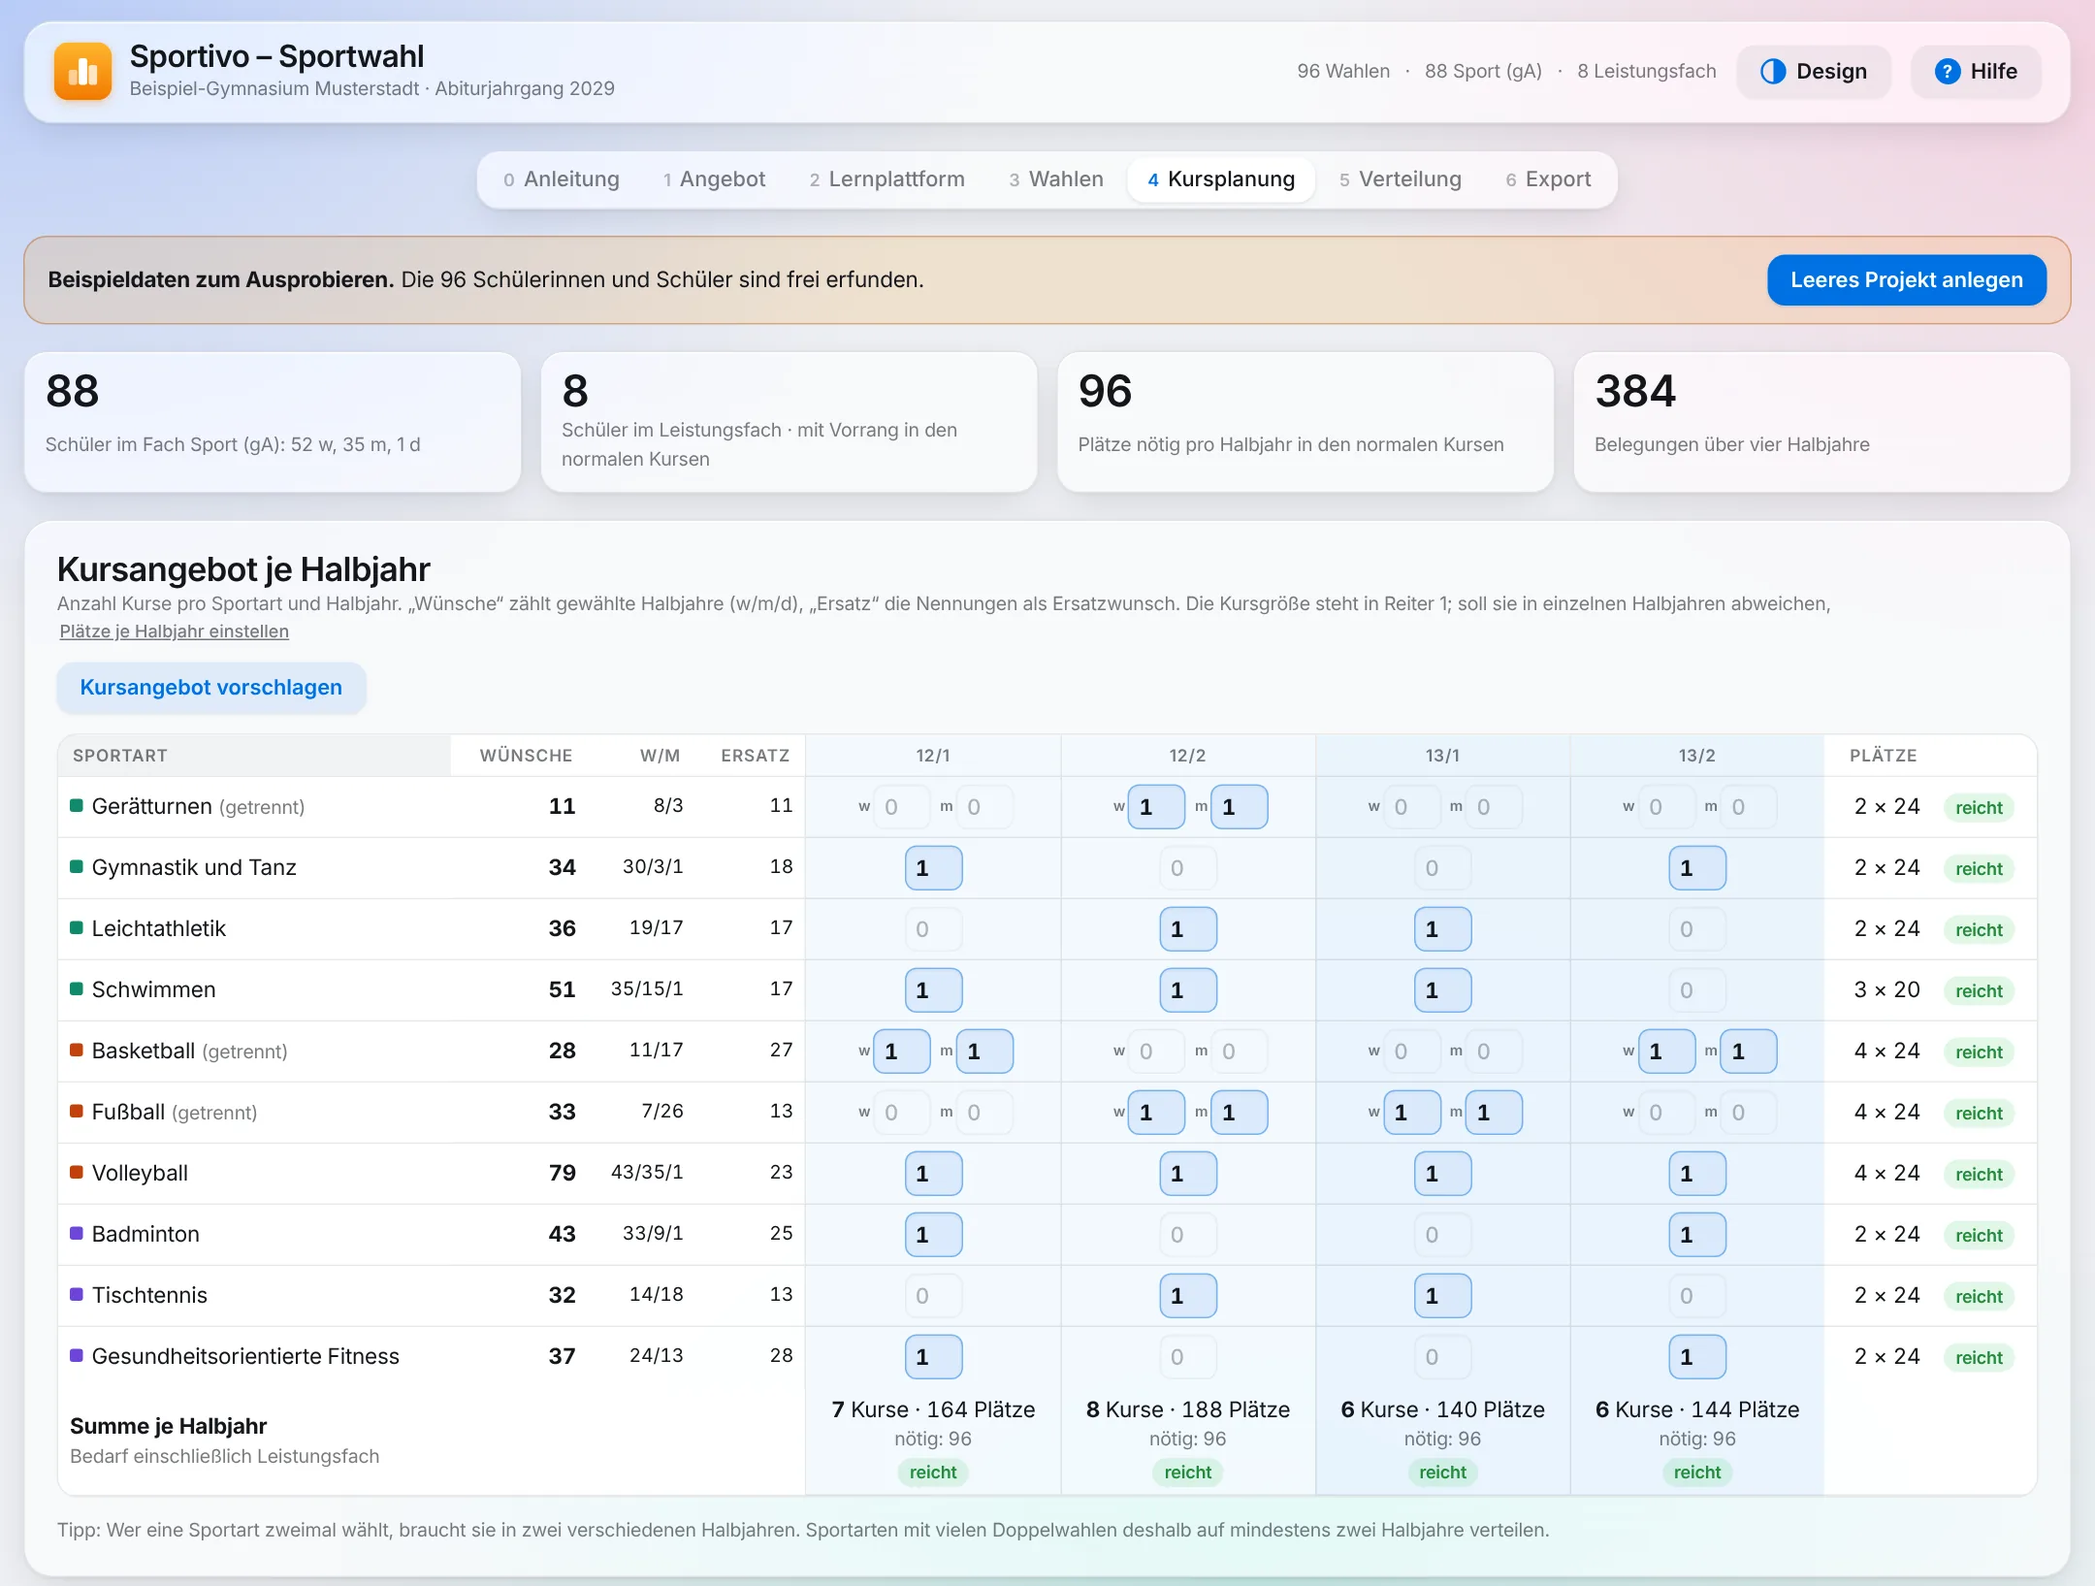
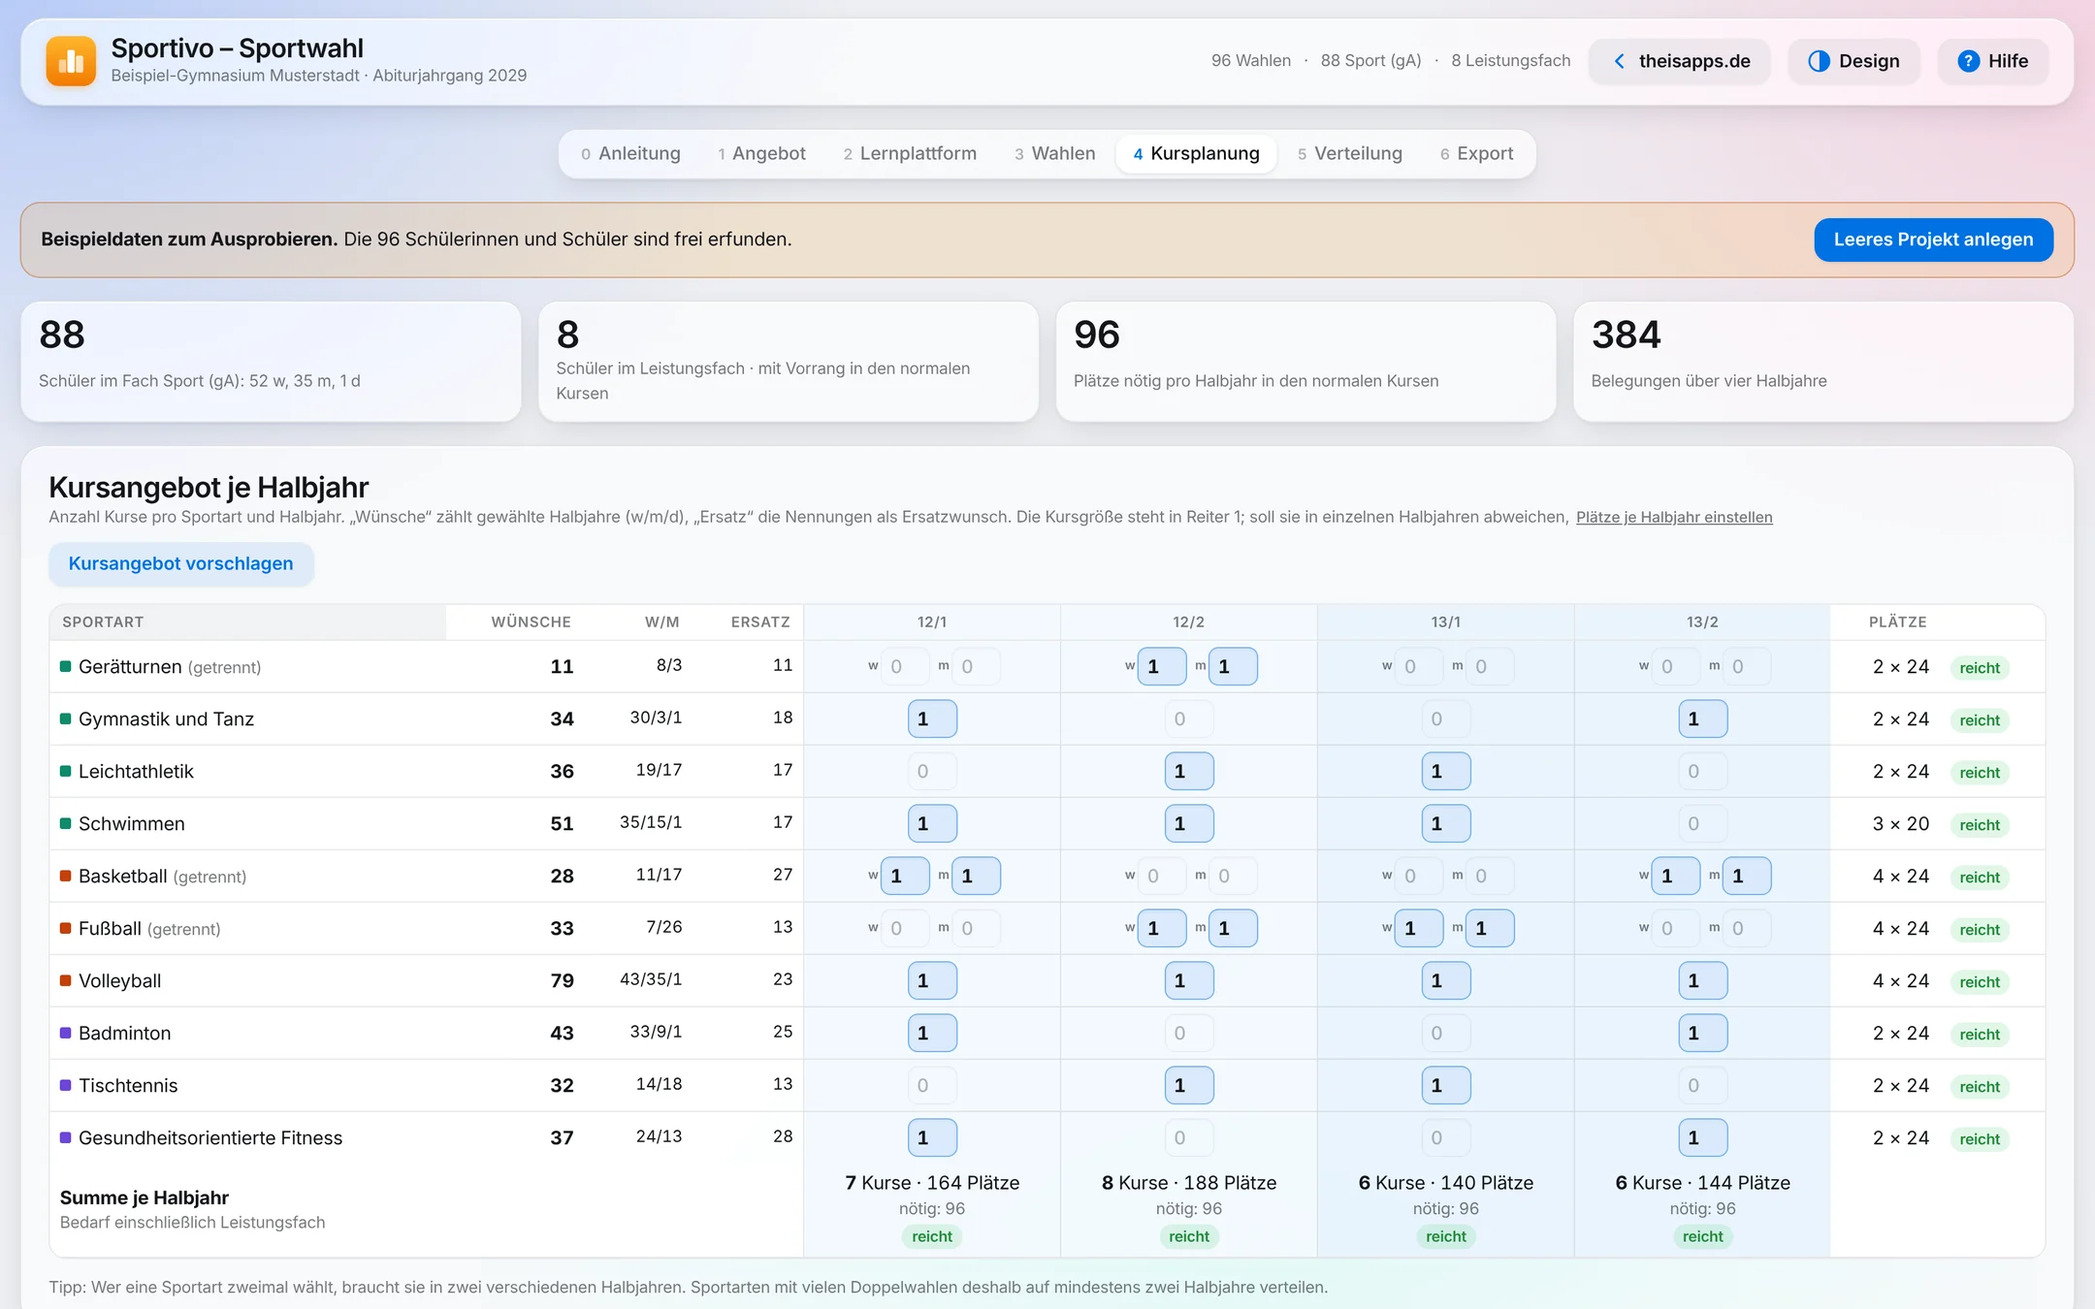
Laptop-Bildschirm immer 16:10; neues Sportivo-Bildschirmfoto im Laptopformat
Claude-Session: https://claude.ai/code/session_01CYga6QpGAYaLVUB4AhPBBg

diff --git a/sportwahl/index.html b/sportwahl/index.html
@@ -23,7 +23,7 @@
 <link rel="canonical" href="https://theisapps.de/sportwahl/">
 <link rel="preload" href="../assets/fonts/schibsted-grotesk-latin-400-normal.woff2?v=5386d37a" as="font" type="font/woff2" crossorigin>
 <link rel="preload" href="../assets/fonts/schibsted-grotesk-latin-700-normal.woff2?v=70a47f95" as="font" type="font/woff2" crossorigin>
-<link rel="stylesheet" href="../assets/site.css?v=58171339">
+<link rel="stylesheet" href="../assets/site.css?v=f45cbbe5">
 <script src="../assets/site.js?v=ece9f01d" defer></script>
 <script type="application/ld+json">{"@context": "https://schema.org", "@type": "WebApplication", "name": "Sportivo – Sportwahl", "url": "https://theisapps.de/sportwahl/", "description": "Sportivo – Sportwahl: Sportartenwahl für Q12/Q13 im G9 Bayern nach der Bekanntmachung des Kultusministeriums. Wahlbogen über die ByCS Lernplattform mit Schritt-für-Schritt-Einrichtung, Kursplanung, regelkonforme Verteilung, Kurslisten und Auswertung als PDF. Kostenlos im Browser, die Daten bleiben lokal.", "applicationCategory": "EducationalApplication", "operatingSystem": "Web", "inLanguage": "de", "image": "https://theisapps.de/assets/img/theis-512.png", "author": {"@type": "Organization", "name": "theisapps", "url": "https://theisapps.de/"}, "publisher": {"@type": "Organization", "name": "theisapps", "url": "https://theisapps.de/"}, "audience": {"@type": "EducationalAudience", "educationalRole": "teacher"}, "softwareVersion": "1.7.2", "offers": {"@type": "Offer", "price": "0", "priceCurrency": "EUR"}, "browserRequirements": "Aktueller Browser mit JavaScript"}</script>
 </head>
@@ -40,7 +40,7 @@
 <a class="crumb" href="../#programme">Programme / Sportivo</a>
 <div class="ah"><div><div class="id"><img src="../assets/img/sportwahl-icon.svg?v=151a6d50" alt="Sportivo App-Symbol" width="72" height="72" style="view-transition-name:ic-sportivo"><span class="badge">Version 1.7</span></div><h1>Die Sportwahl der Oberstufe, an <span class="hl">einem Ort</span></h1></div>
 <div class="r"><p>Sportivo begleitet die Sportartenwahl für die Jahrgangsstufen 12 und 13 im neunjährigen Gymnasium: von der Wahl über die ByCS Lernplattform bis zu fertigen Kurslisten, regelkonform nach der Bekanntmachung des Kultusministeriums.</p><div class="btns"><a class="btn" href="app.html">Sportivo öffnen</a><a class="btn sec" href="app.html?beispiel">Mit Beispieldaten ansehen</a></div><p class="small">Kostenlos, direkt im Browser. Die Ansicht mit Beispieldaten speichert nichts, ein eigenes Projekt bleibt unberührt. <a href="#neu">Neu: Einrichtung in der ByCS Lernplattform Schritt für Schritt</a> · <a href="#ablauf">So läuft es</a></p></div></div>
-<div class="app-stage"><div class="laptop"><div class="scr"><img src="../assets/img/sportwahl-kursplanung.webp?v=e379ce50" alt="Sportivo: Kursangebot je Halbjahr mit Nachfrage und Plätzen" width="1440" height="1090" decoding="async"></div><div class="base"></div></div></div>
+<div class="app-stage"><div class="laptop"><div class="scr"><img src="../assets/img/sportwahl-kursplanung.webp?v=88b42a16" alt="Sportivo: Kursangebot je Halbjahr mit Nachfrage und Plätzen" width="1440" height="900" decoding="async"></div><div class="base"></div></div></div>
 <div class="facts"><div><b>Für</b><span>Q12 und Q13 im G9</span></div><div><b>Läuft</b><span>im Browser</span></div><div><b>Daten</b><span>nur in Ihrem Browser</span></div><div><b>Preis</b><span>kostenlos</span></div></div>
 <div class="neu" id="neu" style="scroll-margin-top:90px"><div class="neu-hd"><span class="neu-tag">Neu in Sportivo 1.7</span><h2>Was Sportivo jetzt zusätzlich kann</h2></div>
 <div class="neu-grid">

diff --git a/voce/index.html b/voce/index.html
@@ -23,7 +23,7 @@
 <link rel="canonical" href="https://theisapps.de/voce/">
 <link rel="preload" href="../assets/fonts/schibsted-grotesk-latin-400-normal.woff2?v=5386d37a" as="font" type="font/woff2" crossorigin>
 <link rel="preload" href="../assets/fonts/schibsted-grotesk-latin-700-normal.woff2?v=70a47f95" as="font" type="font/woff2" crossorigin>
-<link rel="stylesheet" href="../assets/site.css?v=58171339">
+<link rel="stylesheet" href="../assets/site.css?v=f45cbbe5">
 <script src="../assets/site.js?v=ece9f01d" defer></script>
 <script type="application/ld+json">{"@context": "https://schema.org", "@type": "SoftwareApplication", "name": "Voce", "url": "https://theisapps.de/voce/", "description": "Voce: mündliche Schulaufgaben, Prüfungen und Referate in den modernen Fremdsprachen am bayerischen Gymnasium. Prüfungsplan, Aufgabenkarten in vier Designs, Bewertung nach den Rastern des ISB, Aussprache-Notizen und Bewertungsbögen in Word.", "applicationCategory": "EducationalApplication", "operatingSystem": "macOS 13 oder neuer, Windows 10/11 (64 Bit)", "softwareVersion": "2.0.1", "downloadUrl": "https://theisapps.de/voce/#laden", "offers": {"@type": "Offer", "price": "0", "priceCurrency": "EUR"}, "inLanguage": "de", "image": "https://theisapps.de/assets/img/viva-icon.png", "author": {"@type": "Organization", "name": "theisapps", "url": "https://theisapps.de/"}, "publisher": {"@type": "Organization", "name": "theisapps", "url": "https://theisapps.de/"}, "audience": {"@type": "EducationalAudience", "educationalRole": "teacher"}, "alternateName": "Viva"}</script>
 </head>

diff --git a/libretto/index.html b/libretto/index.html
@@ -23,7 +23,7 @@
 <link rel="canonical" href="https://theisapps.de/libretto/">
 <link rel="preload" href="../assets/fonts/schibsted-grotesk-latin-400-normal.woff2?v=5386d37a" as="font" type="font/woff2" crossorigin>
 <link rel="preload" href="../assets/fonts/schibsted-grotesk-latin-700-normal.woff2?v=70a47f95" as="font" type="font/woff2" crossorigin>
-<link rel="stylesheet" href="../assets/site.css?v=58171339">
+<link rel="stylesheet" href="../assets/site.css?v=f45cbbe5">
 <script src="../assets/site.js?v=ece9f01d" defer></script>
 <script type="application/ld+json">{"@context": "https://schema.org", "@type": "SoftwareApplication", "name": "Libretto", "url": "https://theisapps.de/libretto/", "description": "Libretto: Notenverwaltung für das bayerische Gymnasium. Noten eintragen, rechnen, ausdrucken – nach GSO, für alle Fächer von der 5. Klasse bis zum Abitur. Kostenlos, ohne Konto, verschlüsselt auf Ihrem Computer. Für Mac und Windows, mit Online-Demo.", "applicationCategory": "EducationalApplication", "operatingSystem": "macOS, Windows", "inLanguage": "de", "image": "https://theisapps.de/assets/img/libretto-icon.png", "author": {"@type": "Organization", "name": "theisapps", "url": "https://theisapps.de/"}, "publisher": {"@type": "Organization", "name": "theisapps", "url": "https://theisapps.de/"}, "audience": {"@type": "EducationalAudience", "educationalRole": "teacher"}, "softwareVersion": "1.1.1", "offers": {"@type": "Offer", "price": "0", "priceCurrency": "EUR"}}</script>
 </head>

diff --git a/aula/index.html b/aula/index.html
@@ -23,7 +23,7 @@
 <link rel="canonical" href="https://theisapps.de/aula/">
 <link rel="preload" href="../assets/fonts/schibsted-grotesk-latin-400-normal.woff2?v=5386d37a" as="font" type="font/woff2" crossorigin>
 <link rel="preload" href="../assets/fonts/schibsted-grotesk-latin-700-normal.woff2?v=70a47f95" as="font" type="font/woff2" crossorigin>
-<link rel="stylesheet" href="../assets/site.css?v=58171339">
+<link rel="stylesheet" href="../assets/site.css?v=f45cbbe5">
 <script src="../assets/site.js?v=ece9f01d" defer></script>
 <script type="application/ld+json">{"@context": "https://schema.org", "@type": "SoftwareApplication", "name": "Aula", "url": "https://theisapps.de/aula/", "description": "Aula (früher Gruppo): ausgewogene Schülergruppen, Timer, Sitzplan, Stundenplan, Schulkalender mit Ferien und Statistik – für Lehrkräfte, kostenlos für Mac und Windows.", "applicationCategory": "EducationalApplication", "operatingSystem": "macOS, Windows", "inLanguage": "de", "image": "https://theisapps.de/assets/img/aula-icon.png", "author": {"@type": "Organization", "name": "theisapps", "url": "https://theisapps.de/"}, "publisher": {"@type": "Organization", "name": "theisapps", "url": "https://theisapps.de/"}, "audience": {"@type": "EducationalAudience", "educationalRole": "teacher"}, "softwareVersion": "1.4.0", "offers": {"@type": "Offer", "price": "0", "priceCurrency": "EUR"}, "alternateName": ["Gruppen", "Gruppi"]}</script>
 </head>

diff --git a/foliva/index.html b/foliva/index.html
@@ -23,7 +23,7 @@
 <link rel="canonical" href="https://theisapps.de/foliva/">
 <link rel="preload" href="../assets/fonts/schibsted-grotesk-latin-400-normal.woff2?v=5386d37a" as="font" type="font/woff2" crossorigin>
 <link rel="preload" href="../assets/fonts/schibsted-grotesk-latin-700-normal.woff2?v=70a47f95" as="font" type="font/woff2" crossorigin>
-<link rel="stylesheet" href="../assets/site.css?v=58171339">
+<link rel="stylesheet" href="../assets/site.css?v=f45cbbe5">
 <script src="../assets/site.js?v=ece9f01d" defer></script>
 <script type="application/ld+json">{"@context": "https://schema.org", "@type": "SoftwareApplication", "name": "Foliva", "url": "https://theisapps.de/foliva/", "description": "Foliva: Arbeitsblätter und Proben gestalten. Aufgaben mit Lösungen, Lösungsblatt auf Knopfdruck, Vorlagen nach dem LehrplanPLUS. Für bayerische Schulen, von der Grundschule bis zum Gymnasium.", "applicationCategory": "EducationalApplication", "operatingSystem": "macOS, Windows", "inLanguage": "de", "image": "https://theisapps.de/assets/img/foliva-icon.png", "author": {"@type": "Organization", "name": "theisapps", "url": "https://theisapps.de/"}, "publisher": {"@type": "Organization", "name": "theisapps", "url": "https://theisapps.de/"}, "audience": {"@type": "EducationalAudience", "educationalRole": "teacher"}, "softwareVersion": "0.9.16", "offers": {"@type": "Offer", "price": "0", "priceCurrency": "EUR"}}</script>
 </head>

diff --git a/namo/index.html b/namo/index.html
@@ -23,7 +23,7 @@
 <link rel="canonical" href="https://theisapps.de/namo/">
 <link rel="preload" href="../assets/fonts/schibsted-grotesk-latin-400-normal.woff2?v=5386d37a" as="font" type="font/woff2" crossorigin>
 <link rel="preload" href="../assets/fonts/schibsted-grotesk-latin-700-normal.woff2?v=70a47f95" as="font" type="font/woff2" crossorigin>
-<link rel="stylesheet" href="../assets/site.css?v=58171339">
+<link rel="stylesheet" href="../assets/site.css?v=f45cbbe5">
 <script src="../assets/site.js?v=ece9f01d" defer></script>
 <script type="application/ld+json">{"@context": "https://schema.org", "@type": "WebApplication", "name": "’namo.", "url": "https://theisapps.de/namo/", "description": "’namo.: Klassenfahrten, Studienfahrten und andere Schülerfahrten organisieren. Programm, Zimmer, Tickets, Beiträge und Notfallnummern für Lehrkräfte, Schülerinnen und Schüler, vor allem auf dem Handy. Einrichtung auf Anfrage.", "applicationCategory": "EducationalApplication", "operatingSystem": "Web, iOS, Android (Browser)", "inLanguage": "de", "image": "https://theisapps.de/assets/img/namo-icon.png", "author": {"@type": "Organization", "name": "theisapps", "url": "https://theisapps.de/"}, "publisher": {"@type": "Organization", "name": "theisapps", "url": "https://theisapps.de/"}, "audience": {"@type": "EducationalAudience", "educationalRole": "teacher"}}</script>
 </head>

diff --git a/index.html b/index.html
@@ -23,7 +23,7 @@
 <link rel="canonical" href="https://theisapps.de/">
 <link rel="preload" href="assets/fonts/schibsted-grotesk-latin-400-normal.woff2?v=5386d37a" as="font" type="font/woff2" crossorigin>
 <link rel="preload" href="assets/fonts/schibsted-grotesk-latin-700-normal.woff2?v=70a47f95" as="font" type="font/woff2" crossorigin>
-<link rel="stylesheet" href="assets/site.css?v=58171339">
+<link rel="stylesheet" href="assets/site.css?v=f45cbbe5">
 <script src="assets/site.js?v=ece9f01d" defer></script>
 <script type="application/ld+json">{"@context": "https://schema.org", "@type": "Organization", "name": "theisapps", "url": "https://theisapps.de/", "description": "Software für Lehrkräfte in Bayern: Notenverwaltung (Libretto), mündliche Prüfungen (Voce), Arbeitsblätter (Foliva), Klassenzimmer-Werkzeug (Aula, früher Gruppo), Sportwahl Q12/Q13 (Sportivo) und Schülerfahrten (’namo.). Ohne Konto, die Daten bleiben auf dem eigenen Gerät.", "logo": "https://theisapps.de/assets/img/theis-512.png", "email": "hallo@theisapps.de"}</script>
 <script type="application/ld+json">{"@context": "https://schema.org", "@type": "WebSite", "name": "theisapps – Software für den Schulalltag", "url": "https://theisapps.de/", "inLanguage": "de", "publisher": {"@type": "Organization", "name": "theisapps", "url": "https://theisapps.de/"}}</script>

diff --git a/assets/site.css b/assets/site.css
@@ -1132,3 +1132,6 @@ p,li,figcaption{text-wrap:pretty}
 :root[data-theme=dark][data-style=neon] .neu .neu-card{background:linear-gradient(140deg,color-mix(in srgb,var(--app,var(--blue)) 20%,var(--surf)) 0%,var(--surf) 72%);box-shadow:inset 0 0 0 1px color-mix(in srgb,var(--app,var(--blue)) 30%,transparent),0 0 40px -18px color-mix(in srgb,var(--app,var(--blue)) 60%,transparent)}
 :root[data-theme=dark][data-style=heft] .neu .neu-card{background:color-mix(in srgb,var(--app,var(--blue)) 13%,var(--surf))}
 :root[data-theme=dark][data-style=blatt] .neu .neu-card{background:color-mix(in srgb,var(--app,var(--blue)) 12%,transparent)}
+
+/* Laptop-Bildschirm immer 16:10 wie ein echter Laptop – auch wenn ein Bildschirmfoto andere Maße hat */
+.laptop .scr img{aspect-ratio:16/10;object-fit:cover;object-position:top center}

diff --git a/kontakt/index.html b/kontakt/index.html
@@ -23,7 +23,7 @@
 <link rel="canonical" href="https://theisapps.de/kontakt/">
 <link rel="preload" href="../assets/fonts/schibsted-grotesk-latin-400-normal.woff2?v=5386d37a" as="font" type="font/woff2" crossorigin>
 <link rel="preload" href="../assets/fonts/schibsted-grotesk-latin-700-normal.woff2?v=70a47f95" as="font" type="font/woff2" crossorigin>
-<link rel="stylesheet" href="../assets/site.css?v=58171339">
+<link rel="stylesheet" href="../assets/site.css?v=f45cbbe5">
 <script src="../assets/site.js?v=ece9f01d" defer></script>
 <meta name="robots" content="noindex">
 </head>

diff --git a/danke.html b/danke.html
@@ -23,7 +23,7 @@
 <link rel="canonical" href="https://theisapps.de/danke">
 <link rel="preload" href="assets/fonts/schibsted-grotesk-latin-400-normal.woff2?v=5386d37a" as="font" type="font/woff2" crossorigin>
 <link rel="preload" href="assets/fonts/schibsted-grotesk-latin-700-normal.woff2?v=70a47f95" as="font" type="font/woff2" crossorigin>
-<link rel="stylesheet" href="assets/site.css?v=58171339">
+<link rel="stylesheet" href="assets/site.css?v=f45cbbe5">
 <script src="assets/site.js?v=ece9f01d" defer></script>
 <meta name="robots" content="noindex">
 </head>

diff --git a/gruppen/app.html b/gruppen/app.html
@@ -23,7 +23,7 @@
 <link rel="canonical" href="https://theisapps.de/gruppen/app">
 <link rel="preload" href="../assets/fonts/schibsted-grotesk-latin-400-normal.woff2?v=5386d37a" as="font" type="font/woff2" crossorigin>
 <link rel="preload" href="../assets/fonts/schibsted-grotesk-latin-700-normal.woff2?v=70a47f95" as="font" type="font/woff2" crossorigin>
-<link rel="stylesheet" href="../assets/site.css?v=58171339">
+<link rel="stylesheet" href="../assets/site.css?v=f45cbbe5">
 <script src="../assets/site.js?v=ece9f01d" defer></script>
 </head>
 <body>

diff --git a/datenschutz.html b/datenschutz.html
@@ -23,7 +23,7 @@
 <link rel="canonical" href="https://theisapps.de/datenschutz">
 <link rel="preload" href="assets/fonts/schibsted-grotesk-latin-400-normal.woff2?v=5386d37a" as="font" type="font/woff2" crossorigin>
 <link rel="preload" href="assets/fonts/schibsted-grotesk-latin-700-normal.woff2?v=70a47f95" as="font" type="font/woff2" crossorigin>
-<link rel="stylesheet" href="assets/site.css?v=58171339">
+<link rel="stylesheet" href="assets/site.css?v=f45cbbe5">
 <script src="assets/site.js?v=ece9f01d" defer></script>
 </head>
 <body>
